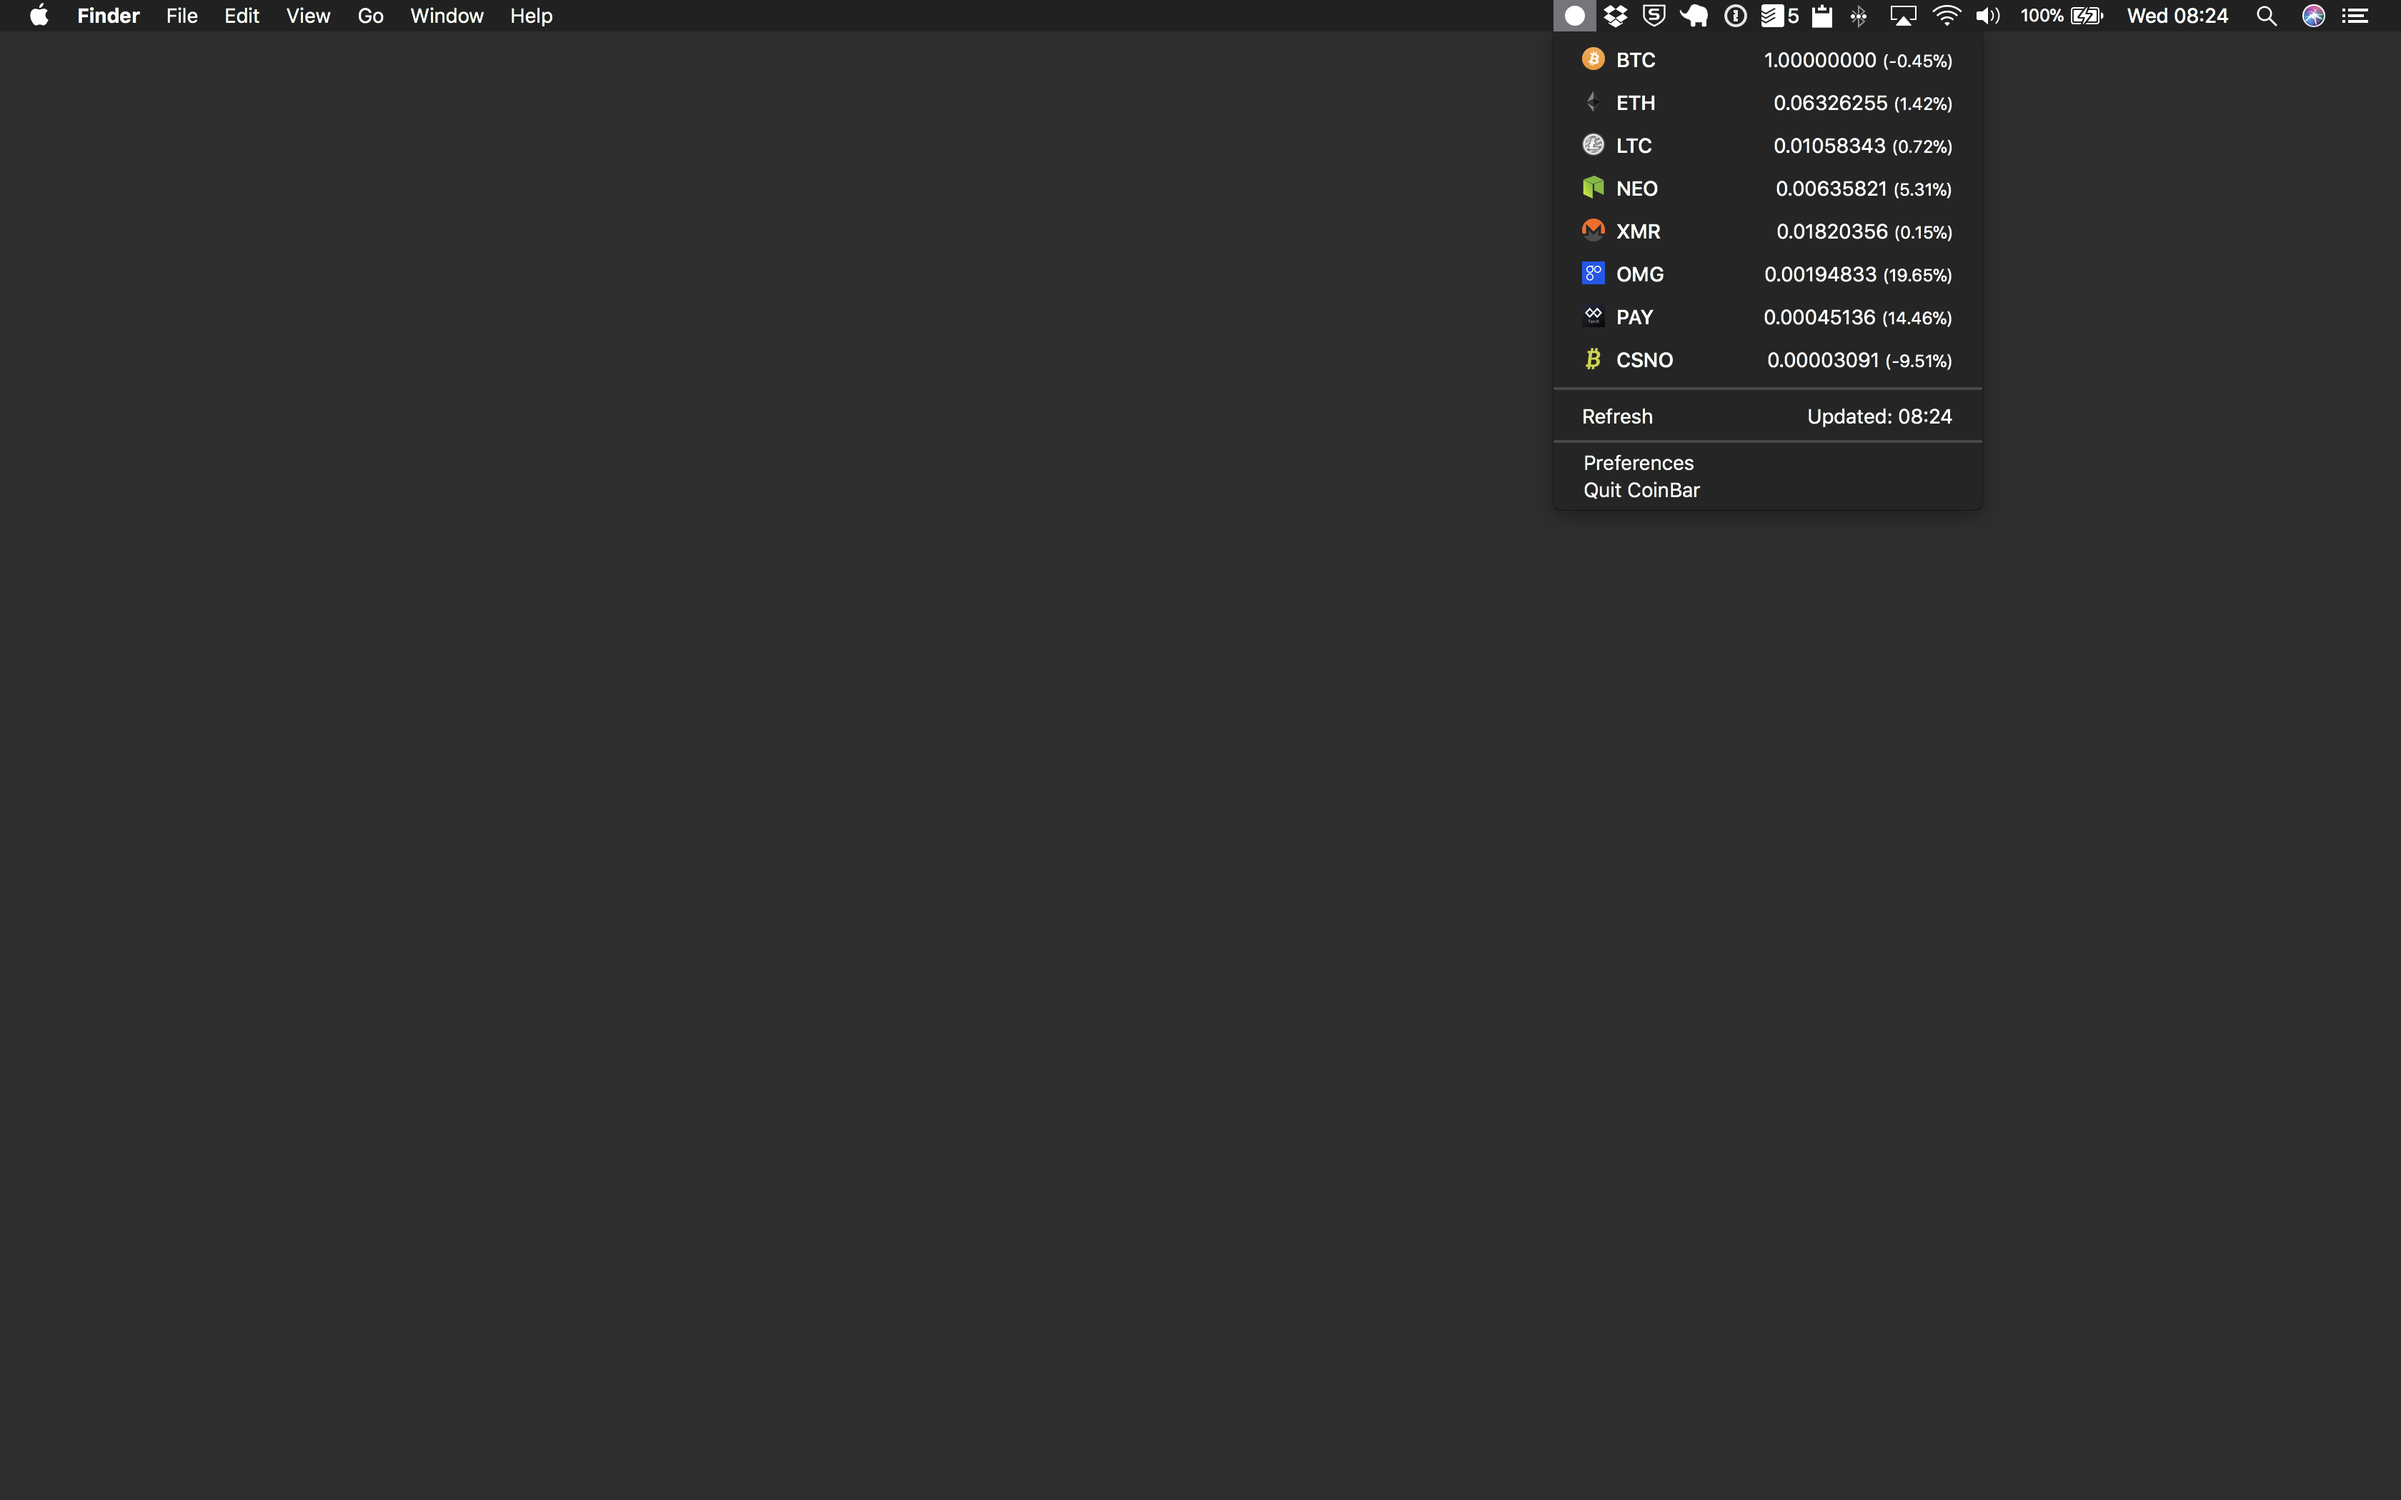
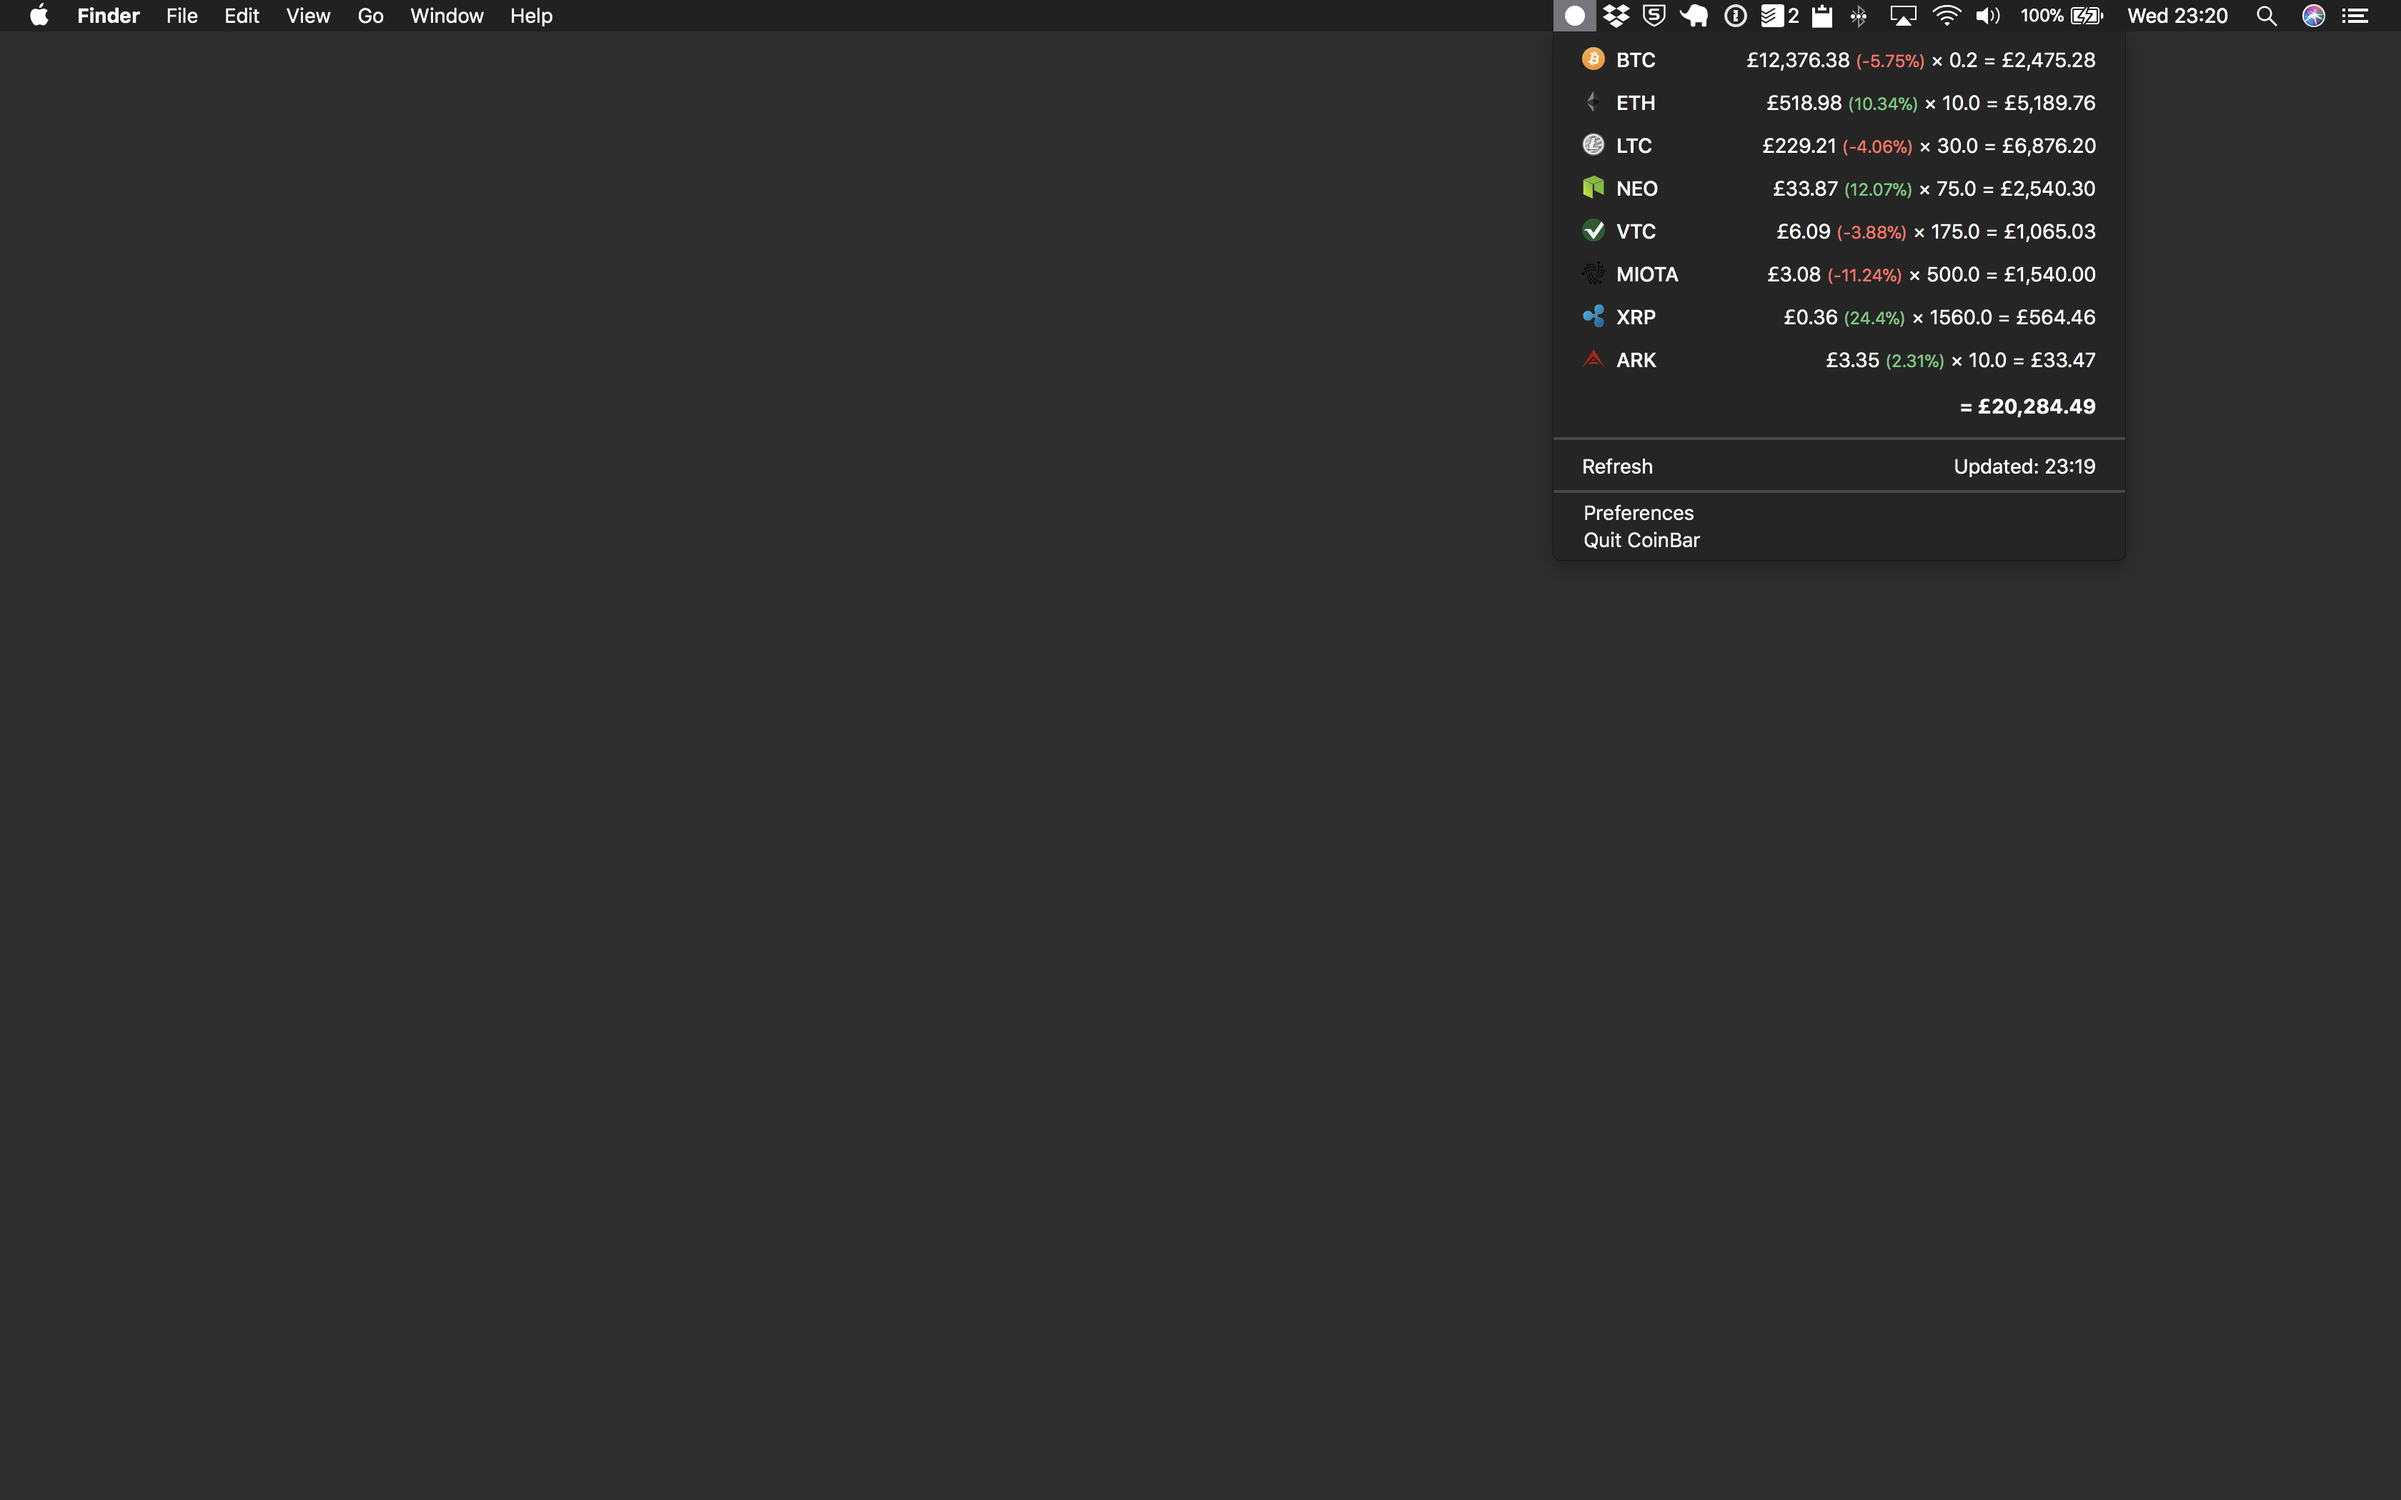
Holdings README

Changed region(s): [[0.6562, 0.031, 0.875, 0.3714]]

diff --git a/README.md b/README.md
@@ -5,6 +5,7 @@ CoinBar is an open source macOS menu bar app for tracking the price of crypto co
 ![screenshot-01](resources/01.png)
 ![screenshot-02](resources/02.png)
 ![screenshot-03](resources/03.png)
+![screenshot-04](resources/04.png)
 
 ## Features
 
@@ -13,6 +14,7 @@ CoinBar is an open source macOS menu bar app for tracking the price of crypto co
 - Supports 33 base currencies.
 - Display price % fluctuations between 1h, 24h and 7d.
 - The menu bar icon flashes when new data is available.
+- Add holdings to see the value of your stack in real time.
 
 ## Installation
 
